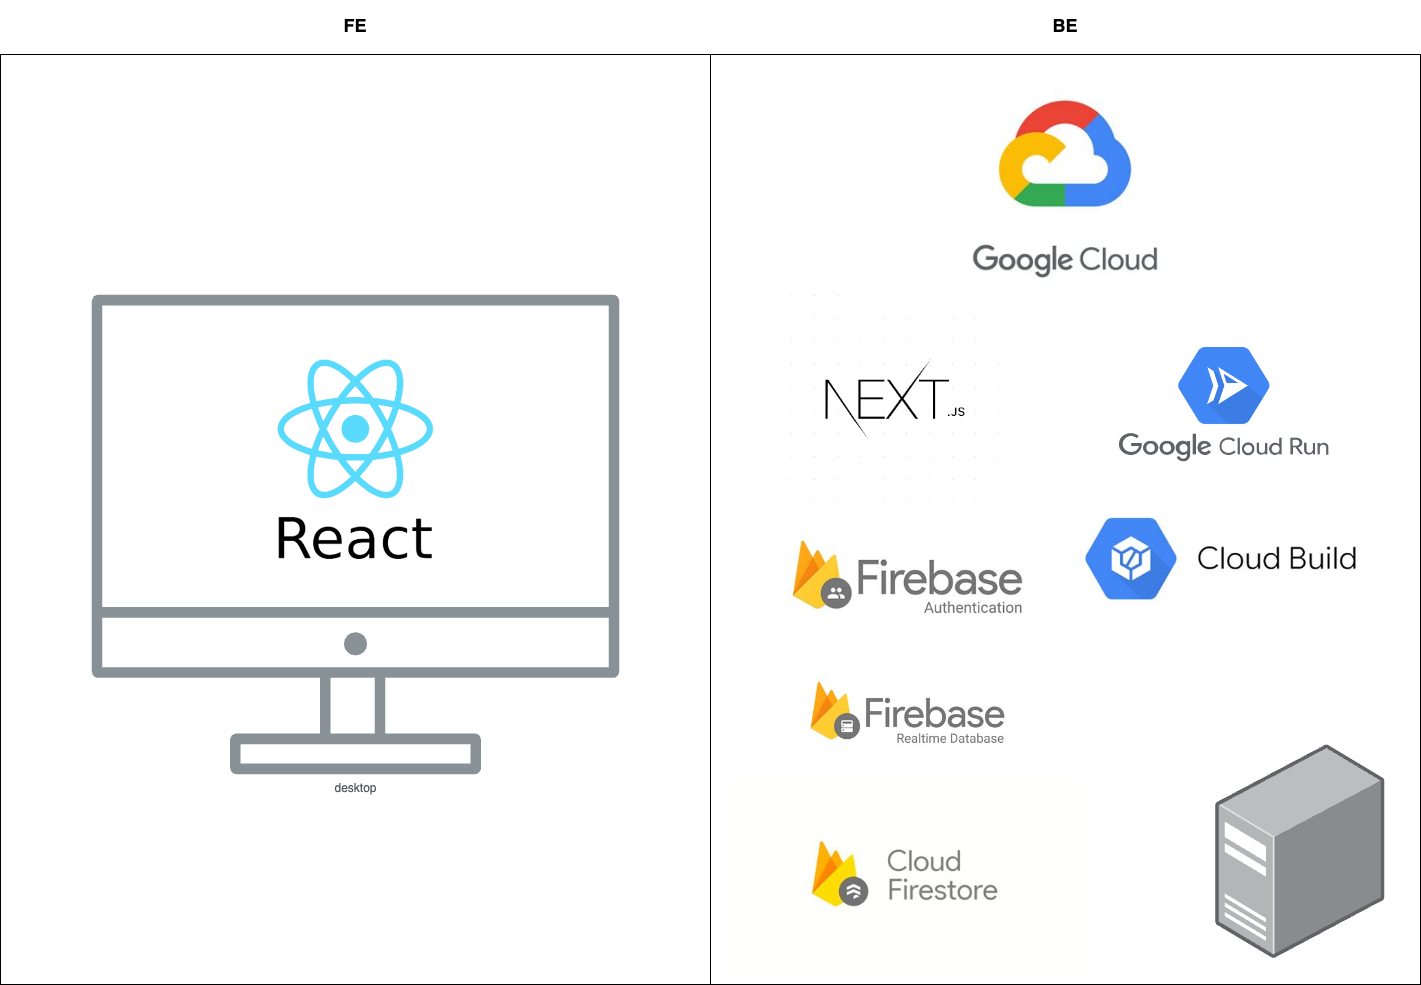
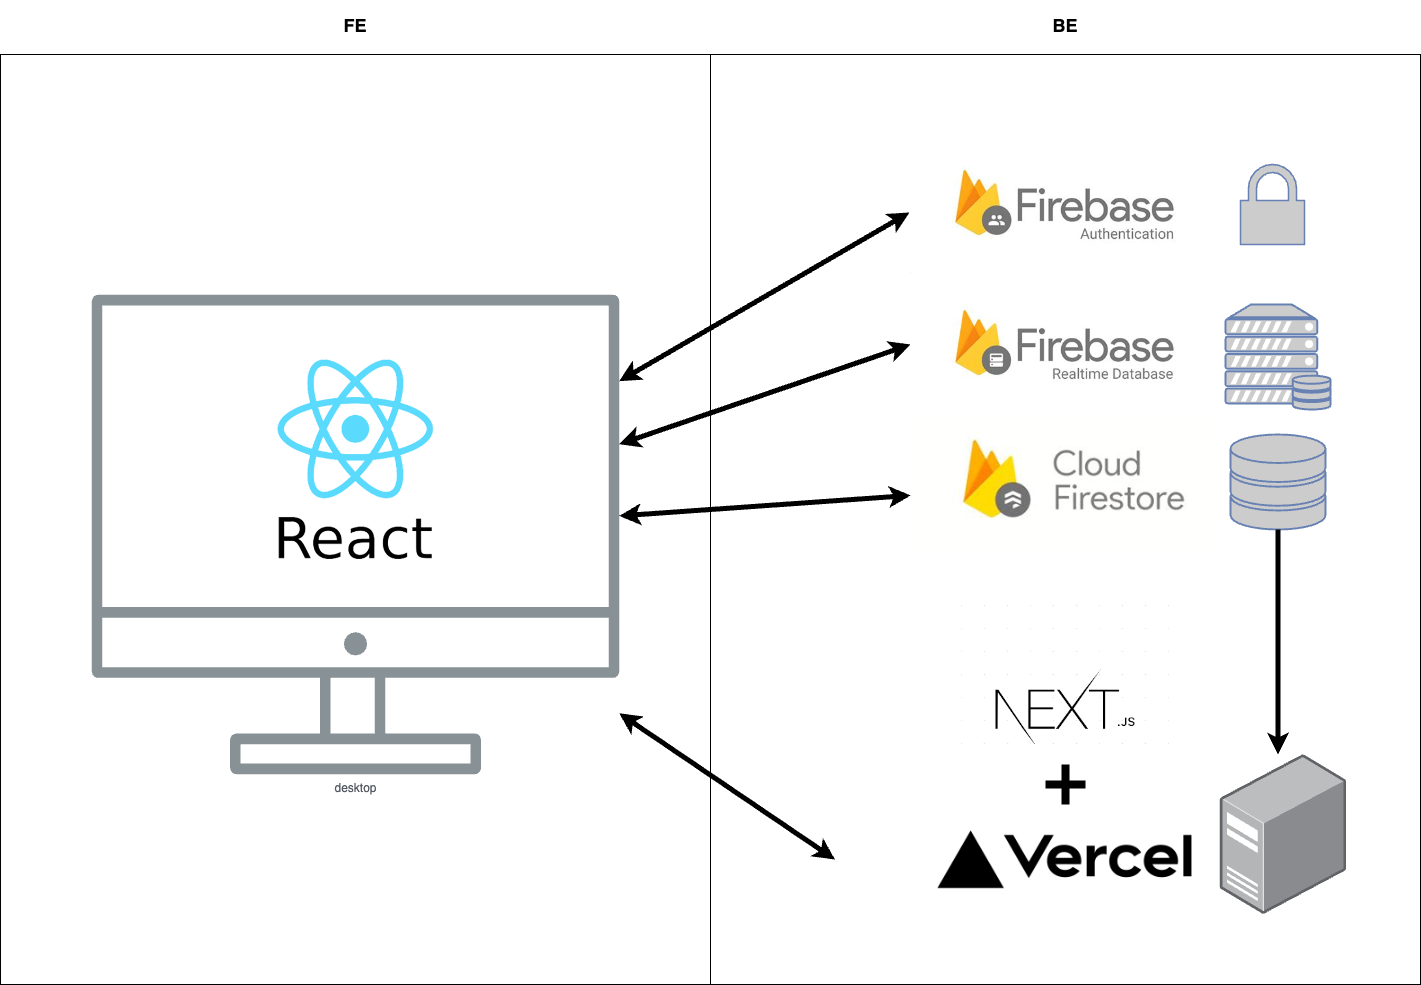
docs(README): update readme

diff --git a/README.md b/README.md
@@ -5,6 +5,10 @@
 > what could be done in real world to decrease the green house effect and  
 > what contributes to the global warming and green house effect.  
 
+## The Demo
+You can play the game right away.  
+[Play Game!](https://carbon-hero.vercel.app/)
+
 ## The team members
 ### GDSC CAU(Chungang University) students
 - HoJoon Eum(GDSC Chungang University Lead)
@@ -35,7 +39,7 @@ From children to elders.
 ### How it works?
 This is a web game for desktop users.  
 The web page is supported by SSR(Server Side Rendering),   
-and it is served by Google Cloud Run.  
+and it is served by Vercel.  
 The Web application is built with React.js and Next.js.  
 The user data are stored in Realtime Database on Firebase. 
 The static files such as images are stored in Firestore on Firebase.  
@@ -65,16 +69,11 @@ This is the list of Google Products used in this solution.
 - Realtime Database
 - Firestore
 - Firebase Authentication
-- Google Cloud Build
-- Google Cloud Run
 
 We used Firestore and Realtime Database for our products.
 We store the user data for game in the Realtime Database.  
 Web store the static files such as images for items in the Firestore.
-We used firebase authentication with Google Provider.  
-
-The web application is served by Google Cloud Run.  
-The application is built using Google Cloud Build.
+We used firebase authentication with Google Provider.
 
 ### What values are provided to users or target groups
 This solution targets people who don't know what is Climate Change, especially the global warming due to green house effect.  
